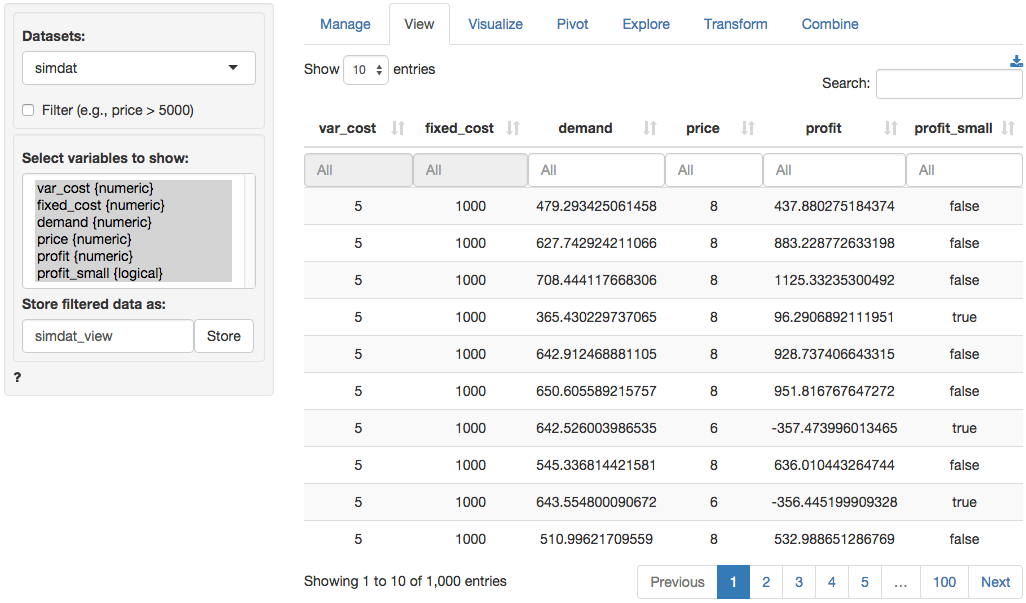
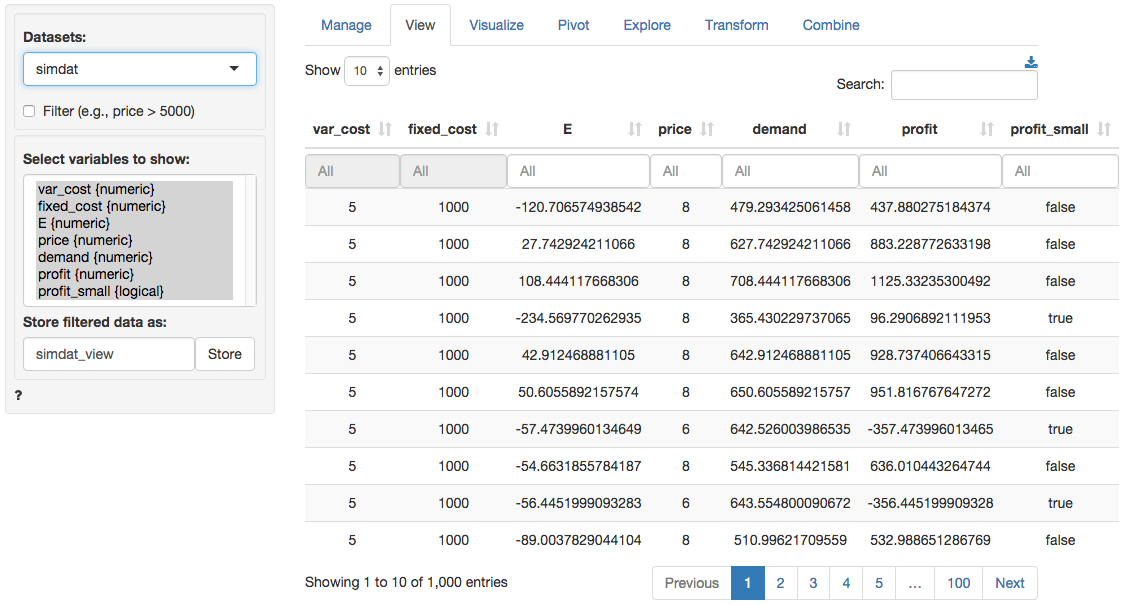
Simulater updates

diff --git a/inst/base/www/style.css b/inst/base/www/style.css
@@ -71,8 +71,13 @@ pre {
 }
 
 #data_filter, #tr_transform, #tr_recode, #tr_rename, #tr_paste,
-#glm_predict_cmd, #reg_predict_cmd {
+#glm_predict_cmd, #reg_predict_cmd, #sim_const, #sim_discrete,
+#sim_binom, #sim_norm, #sim_unif, #sim_sequ, #rep_grid {
   max-width: 234px;
+}
+
+#sim_form, #rep_form {
+  width: 100%;
 }
 
 .alignleft {

diff --git a/inst/quant/tools/help/simulater.md b/inst/quant/tools/help/simulater.md
@@ -109,7 +109,7 @@ To save the simulated data for further analysis specify a name in the `Simulated
 
 When all required inputs have been specified press the `Simulate` button to run the simulation.
 
-In the screen shot below `var_cost` and `fixed_cost` are specified as constants. `demand` is normally distributed with a mean of 1000 and a standard deviation of 100. `price` is a discrete random variable that is set to \$5 (30% probability) or $8 (70% probability). There are three formulas in the `Simulation formulas` text-input. The first updates `demand` to establish a dependence on the simulated variable `price`. The second formula specifies the profit function. The final formula is used to determine the number (and proportion) of cases where profit is below 100. The result is assigned to a new variable `profit_small`.
+In the screen shot below `var_cost` and `fixed_cost` are specified as constants. `E` is normally distributed with a mean of 0 and a standard deviation of 100. `price` is a discrete random variable that is set to \$5 (30% probability) or $8 (70% probability). There are three formulas in the `Simulation formulas` text-input. The first establishes the dependence of `demand` on the simulated variable `price`. The second formula specifies the profit function. The final formula is used to determine the number (and proportion) of cases where profit is below 100. The result is assigned to a new variable `profit_small`.
 
 ![sim output](figures_quant/simulater.png)
 
@@ -123,9 +123,9 @@ Because we specified a name in the `Simulated data` box the data are available a
 
 ## Repeating the simulation
 
-Suppose the simulation discussed above was used to get a better understanding of daily profits. To develop insights into annual profits we could re-run the simulation 365 times. This can be done easily by using the functionality available in the _Repeat_ tab. First, select the `Variables to re-simulate`, here `demand` and `price`. Then select the variable(s) of interest in the `Output variables` box (e.g., `profit`). Set `# runs` to 365.
+Suppose the simulation discussed above was used to get a better understanding of daily profits. To develop insights into annual profits we could re-run the simulation 365 times. This can be done easily by using the functionality available in the _Repeat_ tab. First, select the `Variables to re-simulate`, here `E` and `price`. Then select the variable(s) of interest in the `Output variables` box (e.g., `profit`). Set `# runs` to 365.
 
-Next, we need to determine how to summarize the data. If we select `Simulation` in `Group by` the data will be summarized **across** 365 repeated simulations resulting in 1000 values. If we select `Repeat` in `Group by` the data will be summarized **across** 1000 simulations resulting in 365 values. If you imagine the full set of repeated simulated data as a table with 1000 rows and 365 columns, grouping by `Simulation` will create a summary statistic for each row and grouping by `Repeat` will create a summary statistic for each column. In this example we want to determine the `sum` of simulated daily profits across 365 repetitions so we select `Simulation` in the `Group by` box and `sum` in the `Apply function` box.
+Next, we need to determine how to summarize the data. If we select `Simulation` in `Group by` the data will be summarized for each draw in the simulation **across** 365 repeated simulations resulting in 1000 values. If we select `Repeat` in `Group by` the data will be summarized for each repetition **across** 1000 simulations resulting in 365 values. If you imagine the full set of repeated simulated data as a table with 1000 rows and 365 columns, grouping by `Simulation` will create a summary statistic for each row and grouping by `Repeat` will create a summary statistic for each column. In this example we want to determine the `sum` of simulated daily profits across 365 repetitions so we select `Simulation` in the `Group by` box and `sum` in the `Apply function` box.
 
 To determine, the probability that annual profits are below \$36,500 we enter the formula below into the `Repeated simulation formula` text input.
 
@@ -133,7 +133,7 @@ To determine, the probability that annual profits are below \$36,500 we enter th
 
 When you are done with the input values click the `Repeat` button. Because we specified a name for `Repeat data` two data sets will be created. "simdat_repeat" will have all elements of the repeated simulation (i.e., 1000 x 365 rows) and "simdat_repeat_sum" will have the summarized data grouped by simulation run. Note that the extension "_sum" was used because we selected `sum` from the `Apply function` dropdown.
 
-Descriptive statistics for the repeated simulation are shown in the main panel under `Repeated simulation summary`. We see that the annual expected profit (i.e., the mean of `sum of profit`) for the company is 172311.8 with a standard deviation of 10772.29. Although we found above that daily profits can be below 100, the chance that profits are below $365 \times 100$ for the year are slim to none (i.e., the proportion of repeated simulations with annual profits below \$36,500 is equal to 0).
+Descriptive statistics for the repeated simulation are shown in the main panel under `Repeated simulation summary`. We see that the annual expected profit (i.e., the mean of `sum of profit`) for the company is 172,311.836 with a standard deviation of 10,772.291. Although we found above that daily profits can be below 100, the chance that profits are below $365 \times 100$ for the year are slim to none (i.e., the proportion of repeated simulations with annual profits below \$36,500 is equal to 0).
 
 ![sim output](figures_quant/simulater_repeat.png)
 
